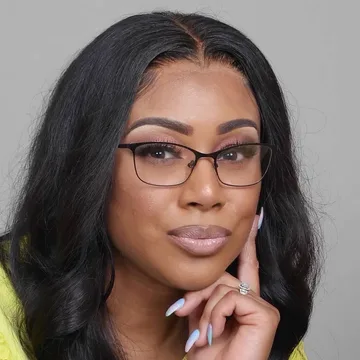
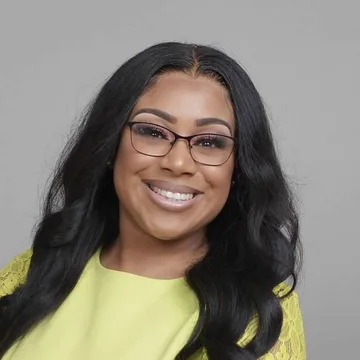
Hero: use smiling portrait; add to photo library
Claude-Session: https://claude.ai/code/session_016xPVPutPjFjkBzm4ZR9Qzg

diff --git a/index.html b/index.html
@@ -466,7 +466,7 @@ footer{background:#0F0E0C;padding:2rem 3.5rem;display:flex;align-items:center;ju
   </div>
   <div class="hero-right"><div class="hp">
 <div class="hp-frame"><span class="hp-halo" aria-hidden="true"></span>
-<figure class="hp-photo"><img src="/assets/img/meshayla-hero-circle-640.webp" srcset="/assets/img/meshayla-hero-circle-360.webp 360w, /assets/img/meshayla-hero-circle-640.webp 640w" sizes="(max-width:960px) 62vw, 330px" width="640" height="640" alt="Meshayla Kemp in glasses and a lime-green lace-sleeved top, resting her chin on her hand" fetchpriority="high" decoding="async"></figure>
+<figure class="hp-photo"><img src="/assets/img/meshayla-hero-circle-640.webp" srcset="/assets/img/meshayla-hero-circle-360.webp 360w, /assets/img/meshayla-hero-circle-640.webp 640w" sizes="(max-width:960px) 62vw, 330px" width="640" height="640" alt="Meshayla Kemp smiling in glasses and a lime-green lace-sleeved top" fetchpriority="high" decoding="async"></figure>
 <p class="hp-sticker"><b>Hi, I&rsquo;m Meshayla.</b><span>10+ years designing learning that works</span></p></div>
 <ul class="hp-orbit" aria-label="My businesses"><li class="hp-slot" style="--a:0deg"><a class="hp-o" href="https://kempadvisory.com" target="_blank" rel="noopener" aria-label="Kemp Advisory Group"><img src="/assets/img/orgs/kag-transparent.webp" alt="" width="64" height="64" loading="lazy"><span>Kemp Advisory Group</span></a></li><li class="hp-slot" style="--a:90deg"><a class="hp-o" href="https://gisellechanel.com/academy-info/" target="_blank" rel="noopener" aria-label="GC Academy"><img src="/assets/img/orgs/gca.webp" alt="" width="64" height="64" loading="lazy"><span>GC Academy</span></a></li><li class="hp-slot" style="--a:180deg"><a class="hp-o" href="https://gisellechanel.com" target="_blank" rel="noopener" aria-label="Giselle Chanel"><img src="/assets/img/orgs/gc.webp" alt="" width="64" height="64" loading="lazy"><span>Giselle Chanel</span></a></li><li class="hp-slot" style="--a:270deg"><a class="hp-o" href="https://kempbellacademy.com" target="_blank" rel="noopener" aria-label="Kempbell Academy"><img src="/assets/img/orgs/ka.webp" alt="" width="64" height="64" loading="lazy"><span>Kempbell Academy</span></a></li></ul>
 </div></div>

diff --git a/assets/img/photos/README.md b/assets/img/photos/README.md
@@ -13,6 +13,7 @@ Saved for reuse (1600px max, WebP). Always write real alt text; suggested alt is
 | meshayla-07-smiling-headshot-wide | Smiling, wider headshot | Contact, social cards |
 | meshayla-08-leaning-on-chair-back-smiling-landscape | Leaning on chair, landscape | Wide hero or banner |
 | meshayla-09-eyes-closed-hand-on-chin-closeup | Eyes closed, hand on chin | Quiet/reflective sections |
-| meshayla-10-hand-on-chin-glasses-portrait | Glasses, hand on chin, portrait | Current home hero (circle crop) |
+| meshayla-10-hand-on-chin-glasses-portrait | Glasses, hand on chin, portrait | Editorial sections (not on home page, her choice) |
+| meshayla-11-smiling-glasses-hand-on-arm-portrait | Smiling, glasses, portrait | Current home hero (circle crop) |
 
-Home hero uses `../meshayla-hero-circle-360.webp` / `-640.webp` (square crop of photo 10).
+Home hero uses `../meshayla-hero-circle-360.webp` / `-640.webp` (square crop of photo 11).
